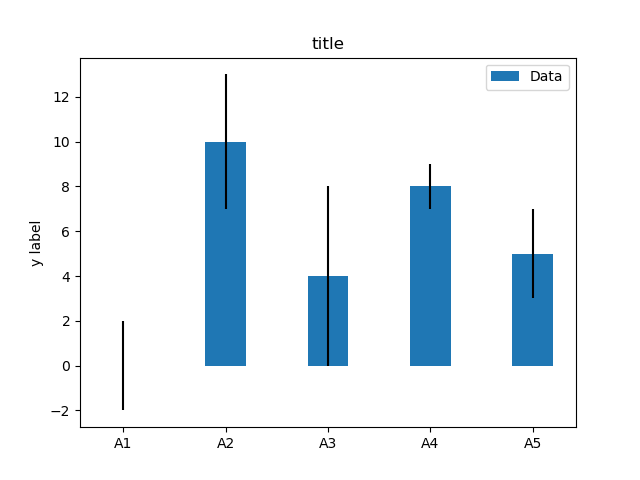
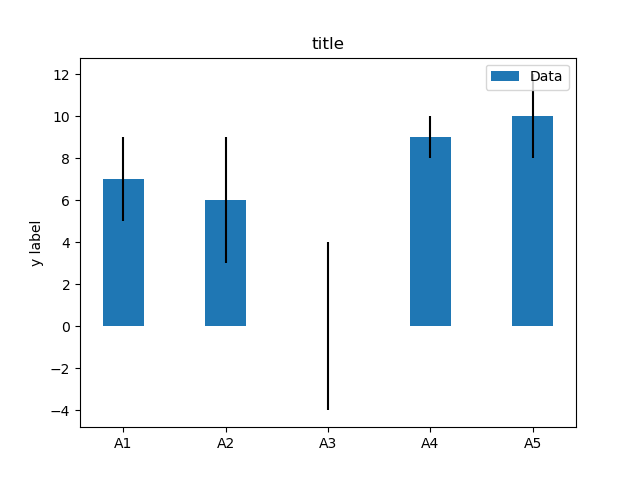
first commit

diff --git a/example.py b/example.py
@@ -2,7 +2,7 @@ import numpy as np
 import matplotlib.pyplot as plt
 
 labels = ['A1', 'A2', 'A3', 'A4', 'A5']
-m_means = [0,10,4,8,5]
+m_means = [7,6,0,9,10]
 m_std = [2, 3, 4, 1, 2]
 width = 0.40       # the width of the bars
 

diff --git a/README.md b/README.md
@@ -1,4 +1,4 @@
-# Matplotlib no 198 
+# Matplotlib no 199 
 
 python example
 
